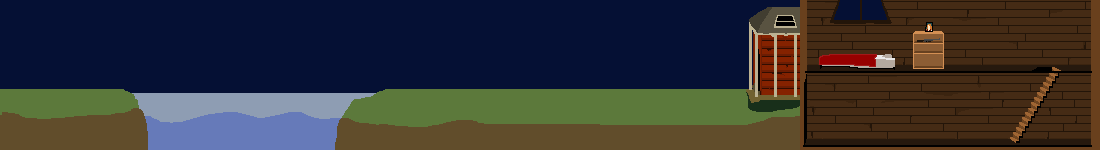
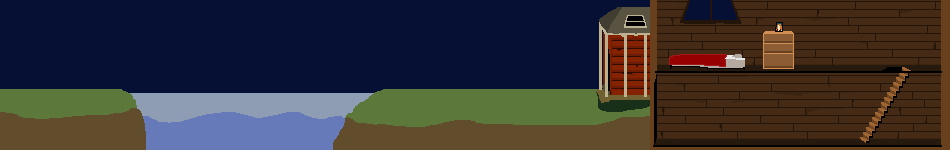
Add in-bed image

diff --git a/index.html b/index.html
@@ -71,7 +71,7 @@
                 dir: 1,
                 frameIndex: 0,
                 boat: "not_in", // in
-                body: "idle", // walking, stairsUp, stairsDown
+                body: "idle", // walking, stairsUp, stairsDown, sleeping
                 pickingUp: "none", // goat, wolf, cabbage, gun
                 x: 100,
                 y: 80,
@@ -85,6 +85,7 @@
             body: null,
             sprite: null,
             deathBody: null,
+            sleepingBody: null,
             shadow: null,
             width: 20
         };
@@ -271,7 +272,6 @@
         function showTitle(msg, restart) {
             if (restart && isPressed(Phaser.KeyCode.SPACEBAR)) {
                 if (title.showing) title.group.destroy();
-                console.log("HERE");
                 title.showing = false;
                 restartGame();
                 return;
@@ -395,15 +395,16 @@
 
         function preload() {
             game.load.image("title", "img/title.png");
-            game.load.image("bg-night", "img/bg-night.png");
+            game.load.image("bg-night", "img/bg-night.png?v3");
             game.load.image("bg", "img/bg.png?v4");
-            game.load.image("bg-night-overlay", "img/bg-night-overlay.png");
+            game.load.image("bg-night-overlay", "img/bg-night-overlay.png?v2");
             game.load.image("farmer-shadow", "img/farmer-shadow.png");
             game.load.image("goat", "img/goat.png");
             game.load.image("wolf", "img/wolf.png");
             game.load.image("cabbage", "img/cabbage.png");
             game.load.image("boat", "img/boat.png?v2");
             game.load.spritesheet("farmer", "img/farmer.png?v5", 30, 44);
+            game.load.image("farmer-sleeping", "img/farmer-sleeping.png");
             game.load.bitmapFont("font", "img/font.png", "img/font.fnt");
             game.load.image("barn-front", "img/barn-front.png?v2");
             game.load.image("gun", "img/gun.png");
@@ -454,10 +455,14 @@
             farmer.body.animations.add("walking-wolf", [22,23,24,25,26,27], 6);
             farmer.shadow = farmer.sprite.create(-8, 16, "farmer-shadow");
             farmer.sprite.add(farmer.body);
+
             farmer.deathBody = game.add.sprite(0, -2, "farmer-death");
             farmer.deathBody.anchor.set(.5, .5);
             farmer.deathBody.animations.add("death", [13, 14, 15, 16, 17, 18, 19], 8, false);
             farmer.sprite.add(farmer.deathBody);
+
+            farmer.sleepingBody = game.add.sprite(kCamBarn + 42, 48, "farmer-sleeping");
+            farmer.sleepingBody.visible = false;
 
             boat.sprite = game.add.sprite(0, 0, "boat");
             boat.sprite.anchor.set(.5, .5);
@@ -684,9 +689,9 @@
                         }
                     }
                 } else {
-                    if (fx >= 1000 && fx < 1012 && isPressed(Phaser.KeyCode.UP)) {
+                    if (fx >= 850 && fx < 862 && isPressed(Phaser.KeyCode.UP)) {
                         farmer.state.onStairs = true;
-                    } else if (fx >= 1040 && fx <= 1060 && isPressed(Phaser.KeyCode.DOWN)) {
+                    } else if (fx >= 890 && fx <= 910 && isPressed(Phaser.KeyCode.DOWN)) {
                         farmer.state.onStairs = true;
                     }
                 }
@@ -700,19 +705,21 @@
                     } else if (farmer.state.floor == 2) {
                         farmer.state.x = fx = kCamBarn;
                     }
-                } else if (fx > 1100 - fhw) {
-                    farmer.state.x = fx = 1100 - fhw;
+                } else if (fx > kCamBarn + 300 - fhw) {
+                    farmer.state.x = kCamBarn + 300 - fhw;
                 }
             }
             
-            if (farmer.state.floor == 2 && gameState.day == 1 && farmer.state.x > 820 && farmer.state.x < 890) {
+            if (farmer.state.floor == 2 && gameState.day == 1 && farmer.state.x > 670 && farmer.state.x < 740) {
                 if (gameState.sky.timeToNight < 50000) {
                     setDisplayText("(space) to sleep");
                     if (isPressed(Phaser.KeyCode.SPACEBAR)) {
-                        transitionState(1000, () => {
+                        farmer.state.body = "sleeping";
+                        transitionState(3000, () => {
                             gameState.day = 2;
                             boat.state.x = kLakeStartX + boat.sprite.width / 2;
                             boat.state.side = "left";
+                            farmer.state.body = "idle";
                         });
                     }
                 } else {
@@ -722,6 +729,7 @@
             
 
             farmer.deathBody.visible = false;
+            farmer.sleepingBody.visible = false;
             farmer.body.visible = true;
 
             // If on death area, show death body.
@@ -738,12 +746,17 @@
                     }
                 }
             }
+            // If sleeping, show sleeping body
+            if (farmer.state.body == "sleeping") {
+                farmer.sleepingBody.visible = true;
+                farmer.body.visible = false;
+            }
             
             // Apply farmer state to farmer sprite.
             farmer.body.scale.set(farmer.state.dir, 1);
             farmer.deathBody.scale.set(farmer.state.dir, 1);
-            var farmerAnim = farmer.state.body;
 
+            var farmerAnim = farmer.state.body;
             // If the farmer is picking up an animal or gun, tack on to the current animation.
             if (animals.has(farmer.state.pickingUp)) {
                 farmerAnim += "-" + farmer.state.pickingUp;
@@ -866,6 +879,7 @@
                 }
             } else {
                 bg.alpha = 1;
+                bgNightOverlay.alpha = 0;
             }
         }
 

diff --git a/readme.md b/readme.md
@@ -1,8 +1,8 @@
 Bugs
 ----
 - Gun pickup location
-- After farmer sleep transition, farmer moves
-- Farmer moves position after
+- Farmer moves position after on boat
+- Farmer walks on lake on day 2
 
 Code cleaning
 -------------
@@ -12,13 +12,15 @@ Code cleaning
 
 Artwork
 -------
-- Reduce land between barn and lake, increase size of lake to hide boat on ending sequence
+- Reduce land between barn and lake, increase size of lake to hide boat on ending sequence [done]
 - Picking up animations [done]
+- In bed animation [done]
+- Fix nightime transition
+- Fix boat boundaries
+- Staircase animation
+- Add homelike items to barn, define artwork for boards
 - Animations for goat/wolf/cabbage (eating, walking, dead, idle)
 - Add z-indexes layers
-- Staircase animation
-- In bed animation
-- Add homelike items to barn, define artwork for boards
 - Water movement please!!!
 
 - Add window to house, have sky overlay [done]
